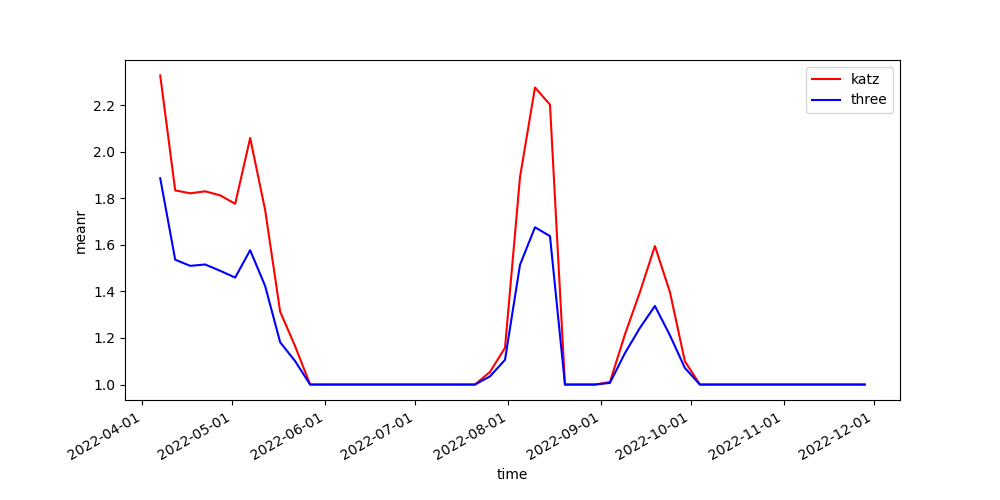
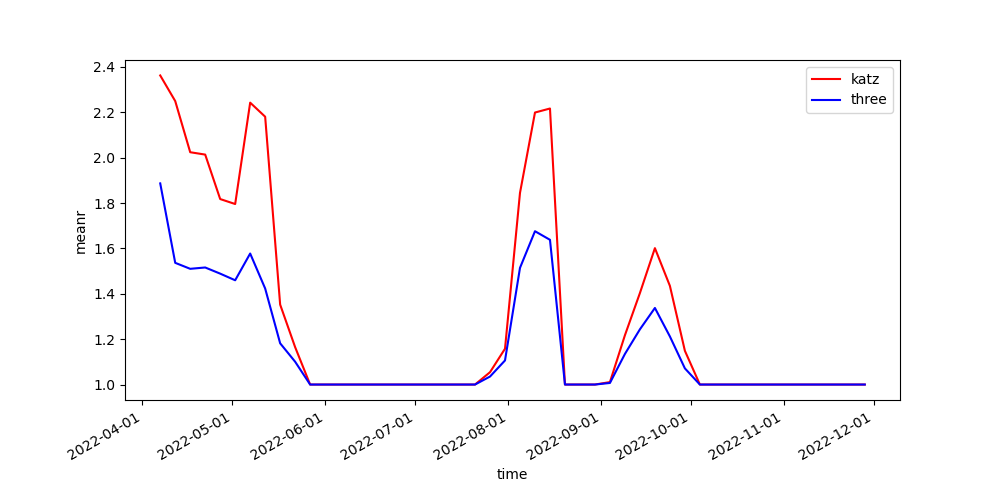
5.correct transposition

diff --git a/centime_nw.py b/centime_nw.py
@@ -67,7 +67,7 @@ def centime_nw(token,T,beta):
 
         # GMRES
         cputime = time.process_time()
-        x, exitCode = spla.gmres(I-a*A, x) # 默认restart=20,x即为完整的kazt中心性向量,exitCode=0表示success
+        x, exitCode = spla.gmres(I-a*A.T, x) # 默认restart=20,x即为完整的kazt中心性向量,exitCode=0表示success
         x = x/max(abs(x)) # 归一化
         cputime_gmres.append(time.process_time() - cputime)
 

diff --git a/centime_w.py b/centime_w.py
@@ -65,7 +65,7 @@ def centime_w(token,T):
 
         # GMRES
         cputime = time.process_time()
-        x, exitCode = spla.gmres(I-a*A, x) # 默认restart=20,x即为完整的kazt中心性向量,exitCode=0表示success
+        x, exitCode = spla.gmres(I-a*A.T, x) # 默认restart=20,x即为完整的kazt中心性向量,exitCode=0表示success
         x = x/max(abs(x)) # 归一化
         cputime_gmres.append(time.process_time() - cputime)
 

diff --git a/centop_nw.py b/centop_nw.py
@@ -81,7 +81,7 @@ def meanr(token,T,s,percent,beta):
 
         # GMRES
         cputime = time.process_time()
-        x, exitCode = spla.gmres(I-a*A, b) # 默认restart=20,x即为完整的kazt中心性向量,exitCode=0表示success
+        x, exitCode = spla.gmres(I-a*A.T, b) # 默认restart=20,x即为完整的kazt中心性向量,exitCode=0表示success
         cputime_gmres.append(time.process_time() - cputime)
 
         # three degrees

diff --git a/centop_w.py b/centop_w.py
@@ -77,7 +77,7 @@ def meanr(token,T,s,percent):
 
         # GMRES
         cputime = time.process_time()
-        x, exitCode = spla.gmres(I-a*A, b) # 默认restart=20,x即为完整的kazt中心性向量,exitCode=0表示success
+        x, exitCode = spla.gmres(I-a*A.T, b) # 默认restart=20,x即为完整的kazt中心性向量,exitCode=0表示success
         cputime_gmres.append(time.process_time() - cputime)
 
         # three degrees

diff --git a/centrality_w.py b/centrality_w.py
@@ -60,7 +60,7 @@ def centrality_w(token,T,s):
 
         # GMRES
         cputime = time.process_time()
-        x, exitCode = spla.gmres(I-a*A, b) # 默认restart=20,x即为完整的kazt中心性向量,exitCode=0表示success
+        x, exitCode = spla.gmres(I-a*A.T, b) # 默认restart=20,x即为完整的kazt中心性向量,exitCode=0表示success
         cputime_gmres.append(time.process_time() - cputime)
 
         # three degrees
